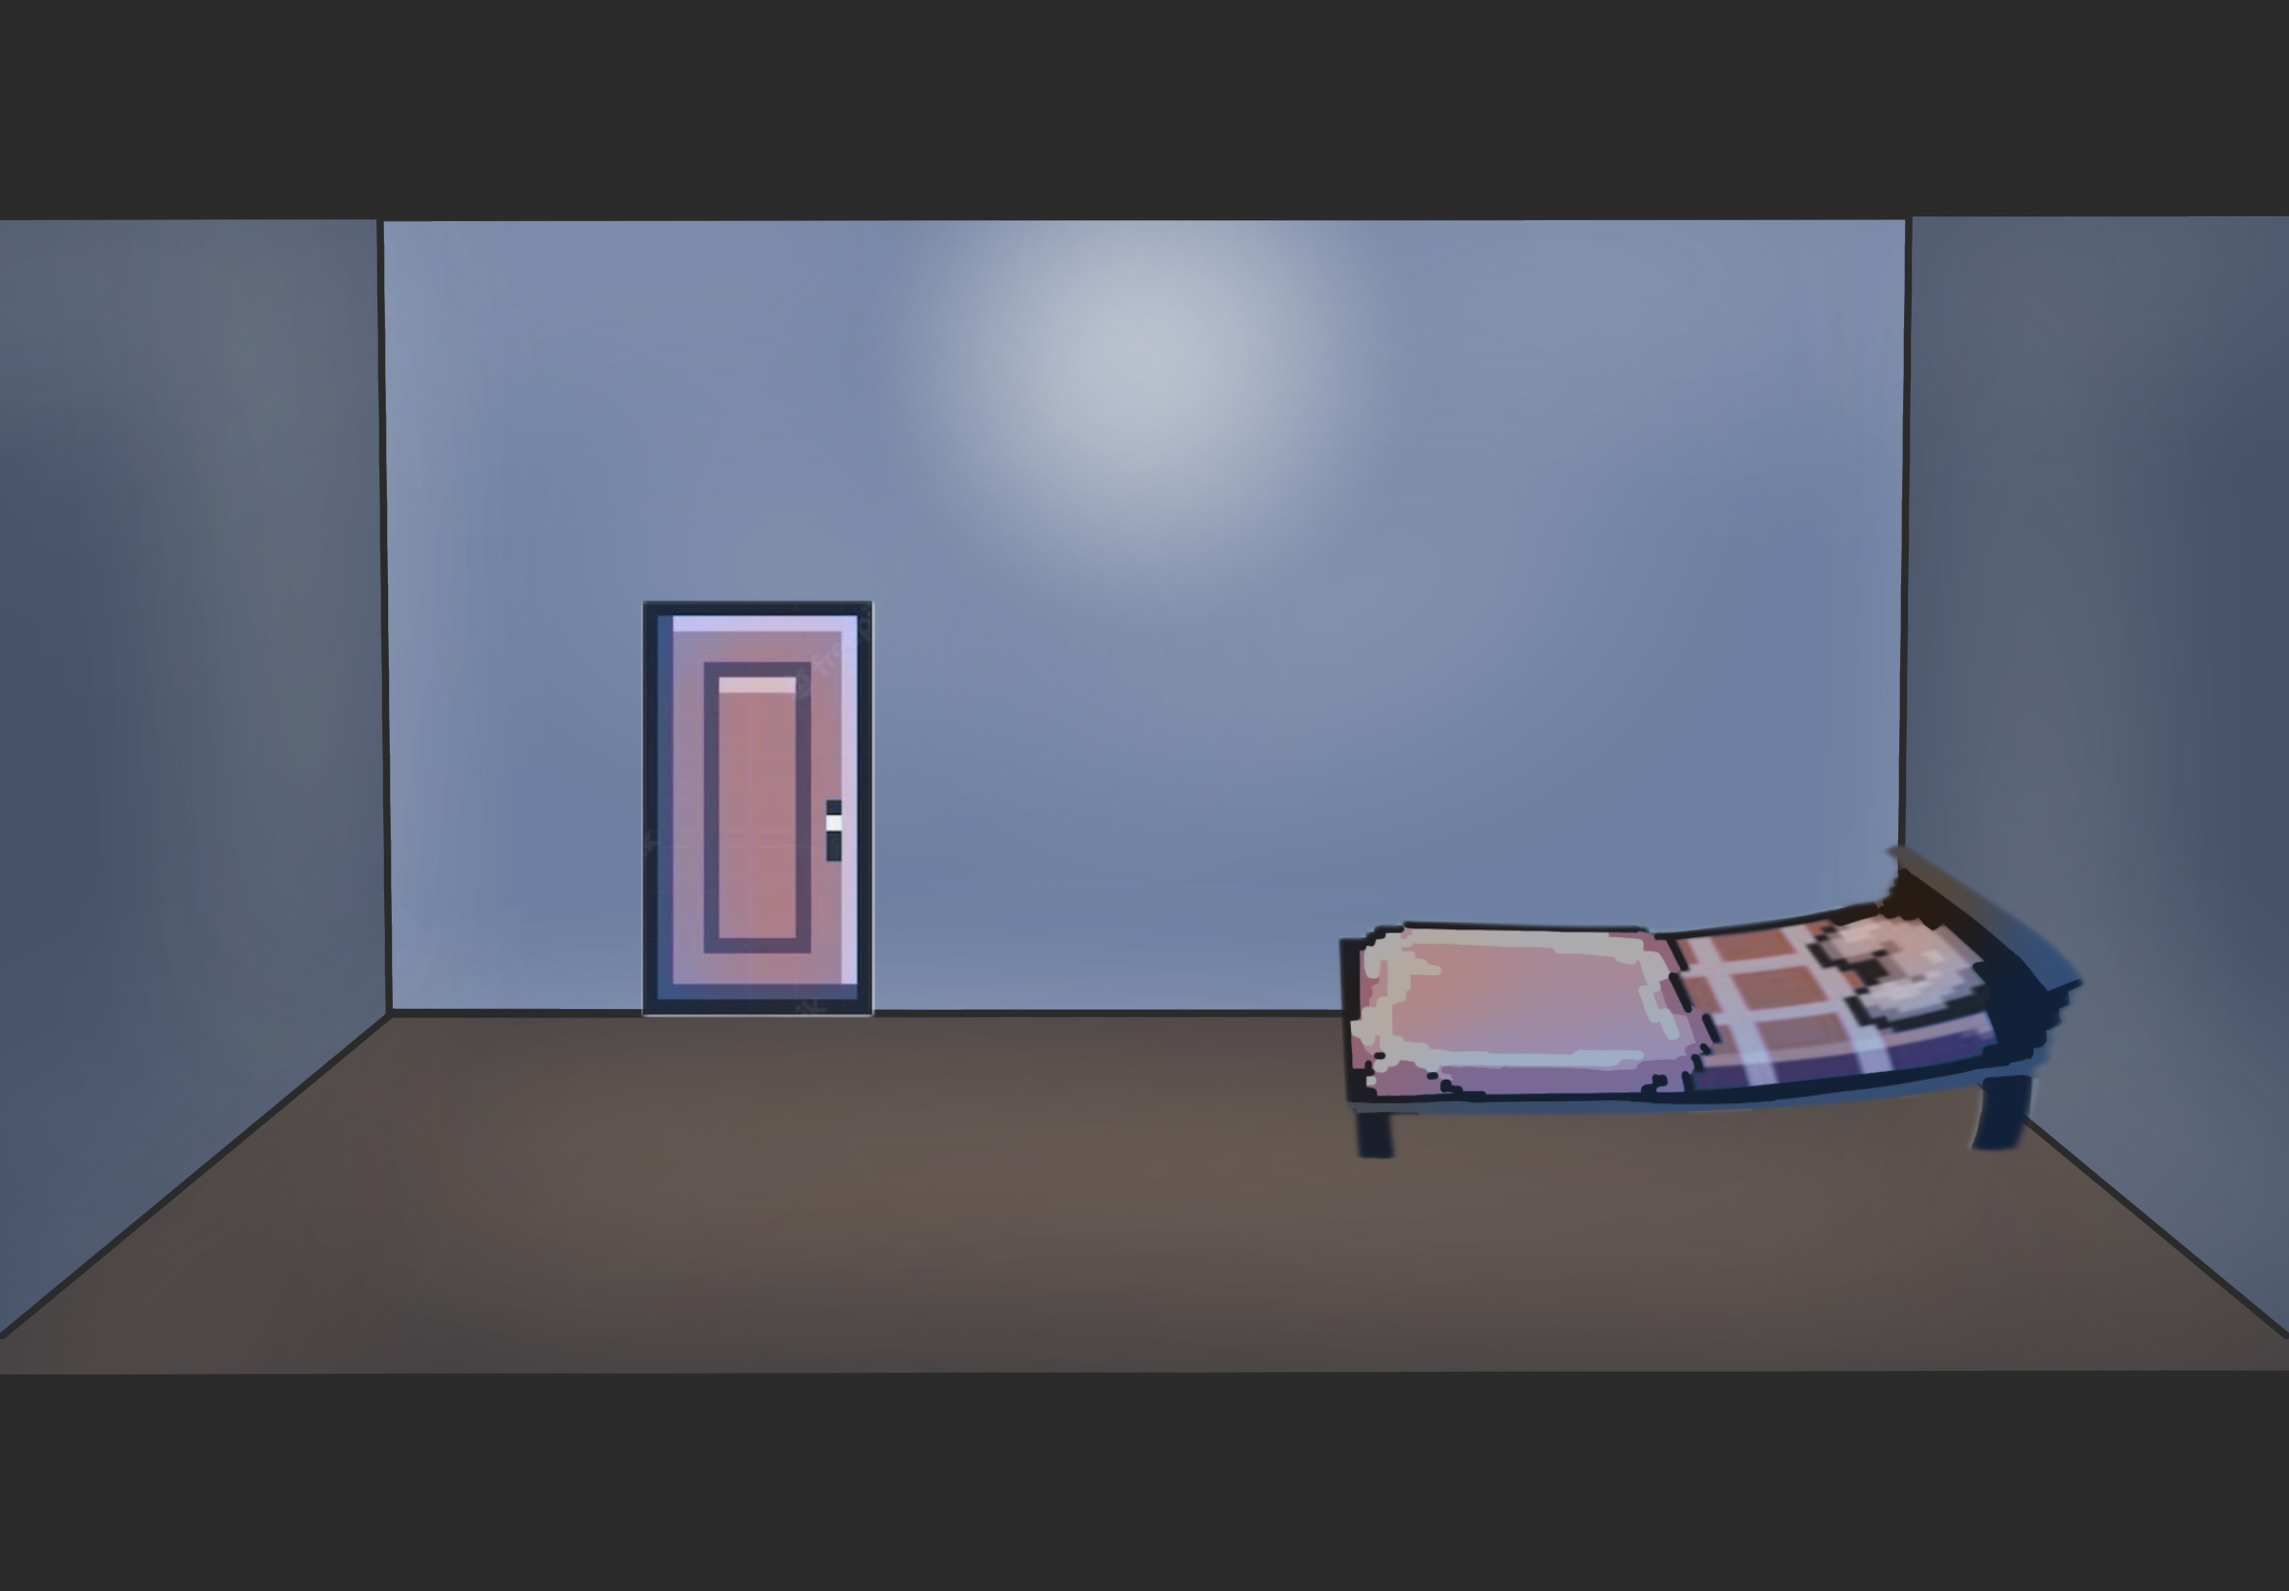
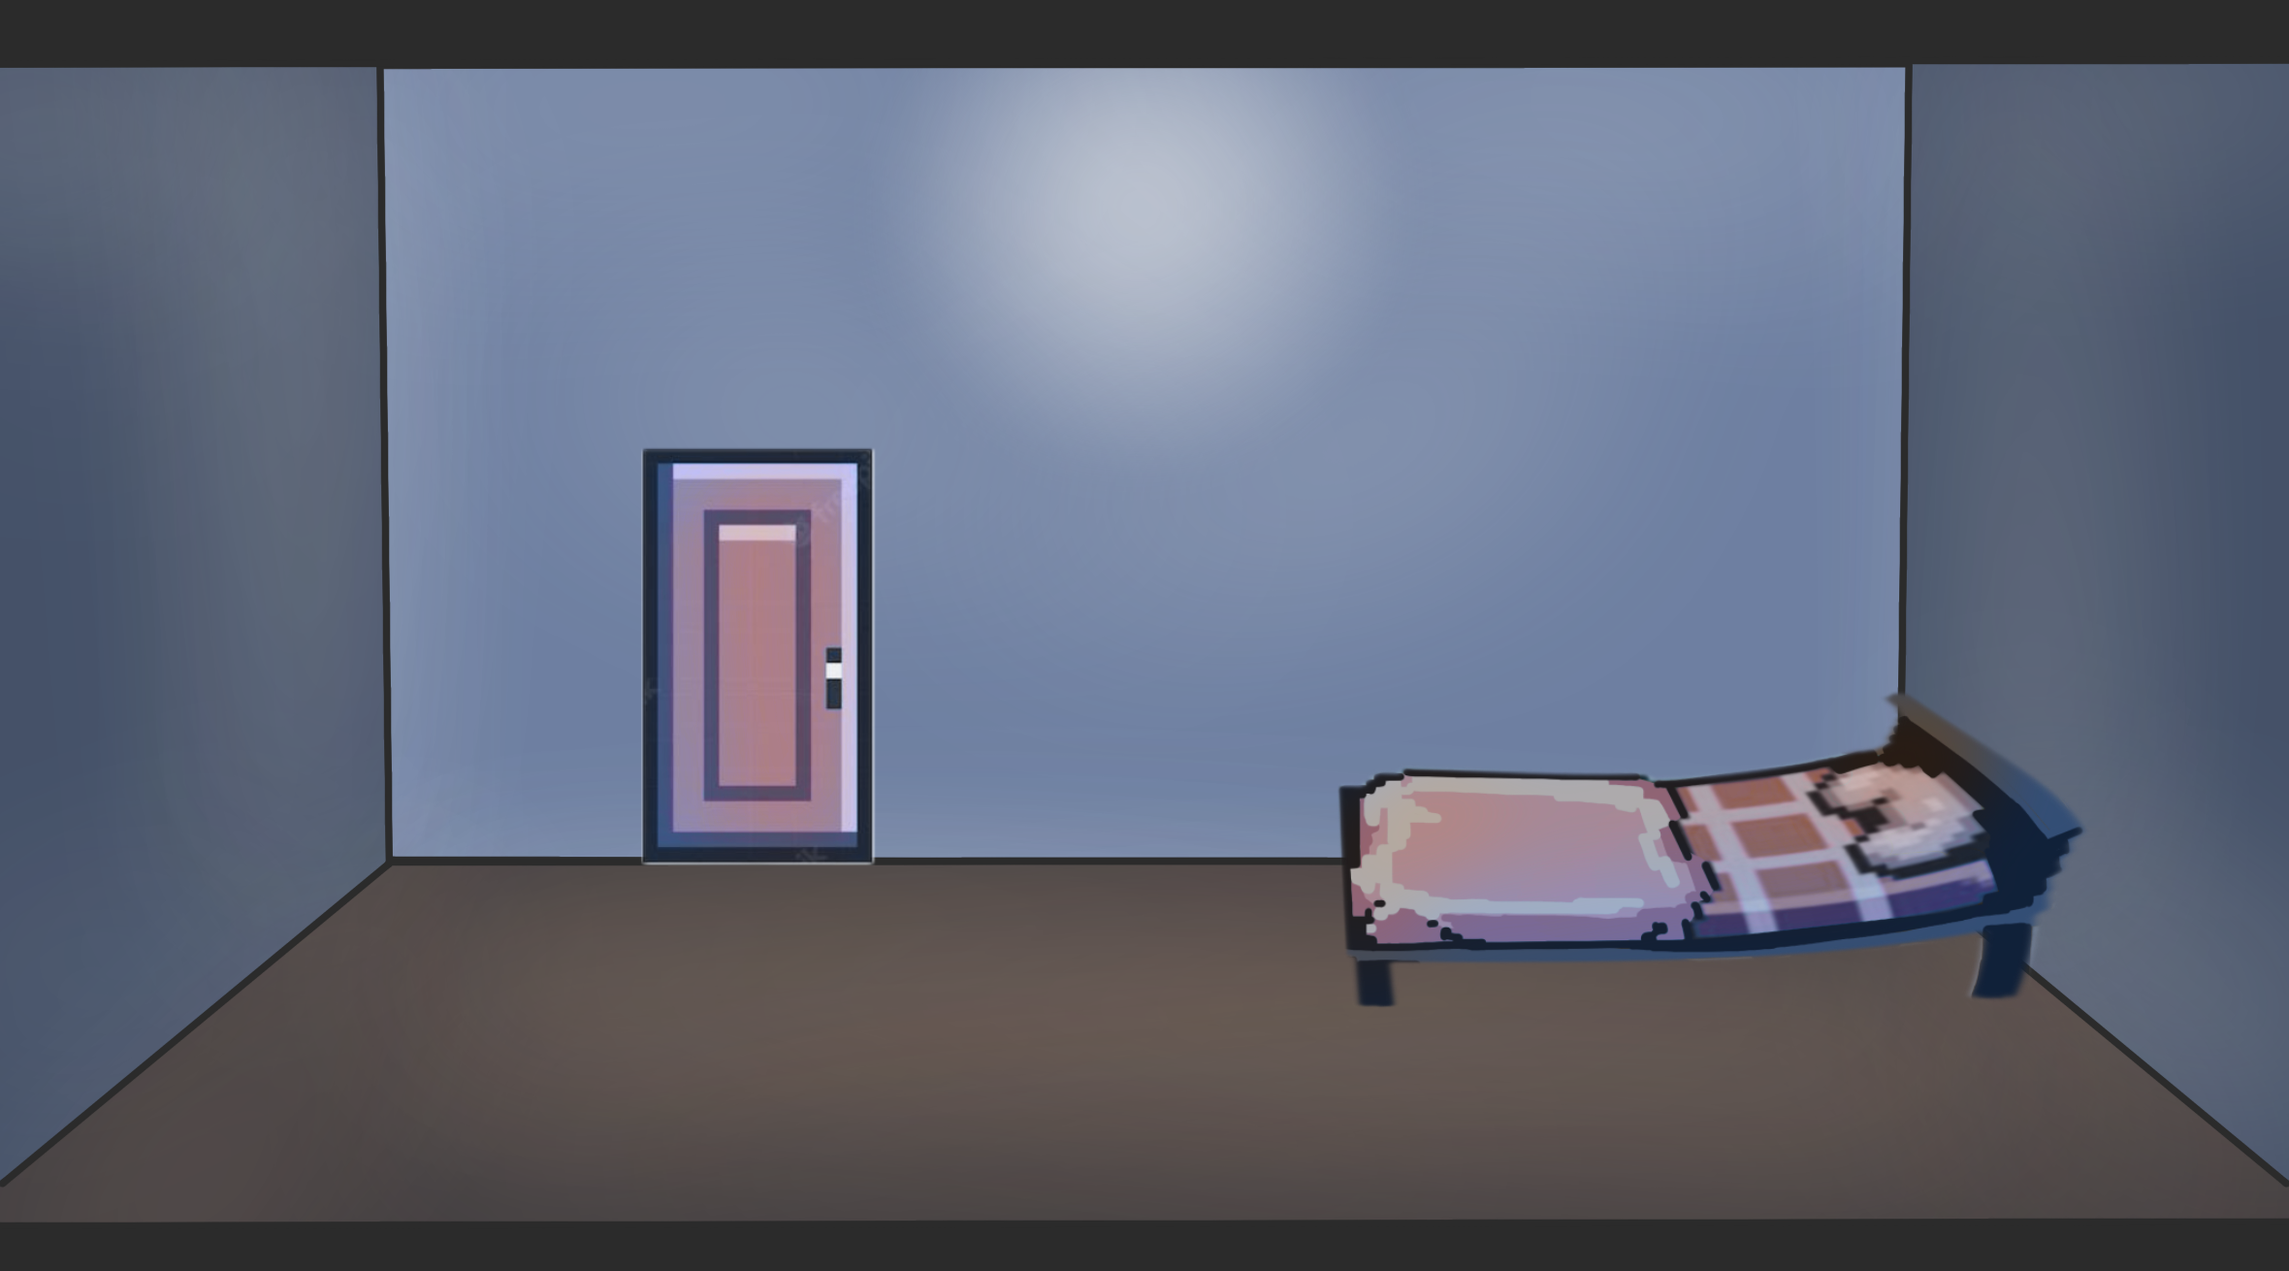
Dimension improved.

diff --git a/lib/Components/config.dart b/lib/Components/config.dart
@@ -1,2 +1,2 @@
 const gameWidth = 2360.000;
-const gameHeight = 1640.000;
+const gameHeight = 1310.000;
